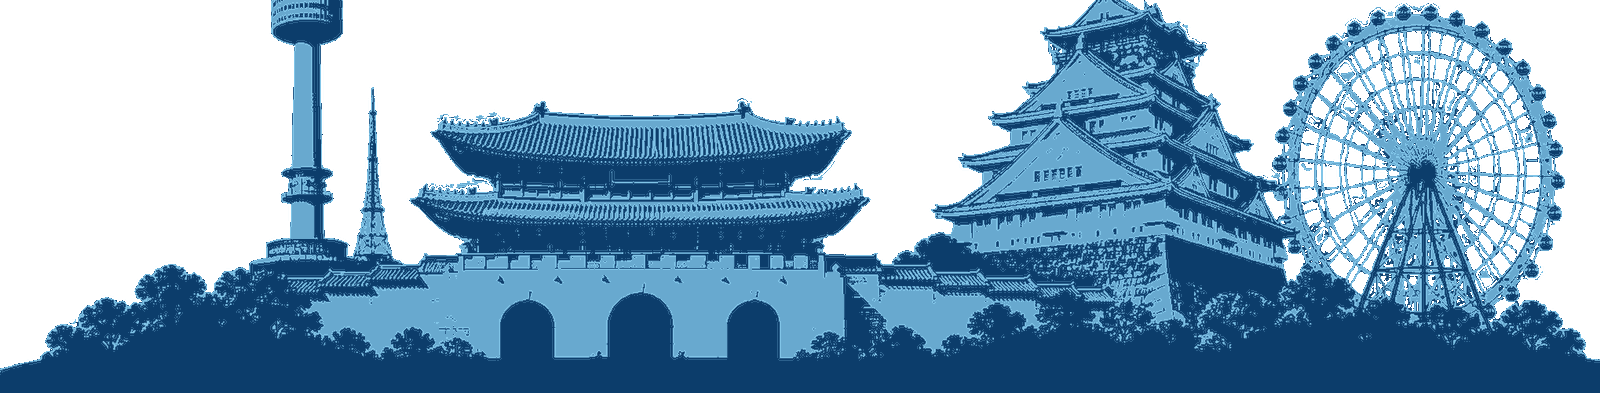
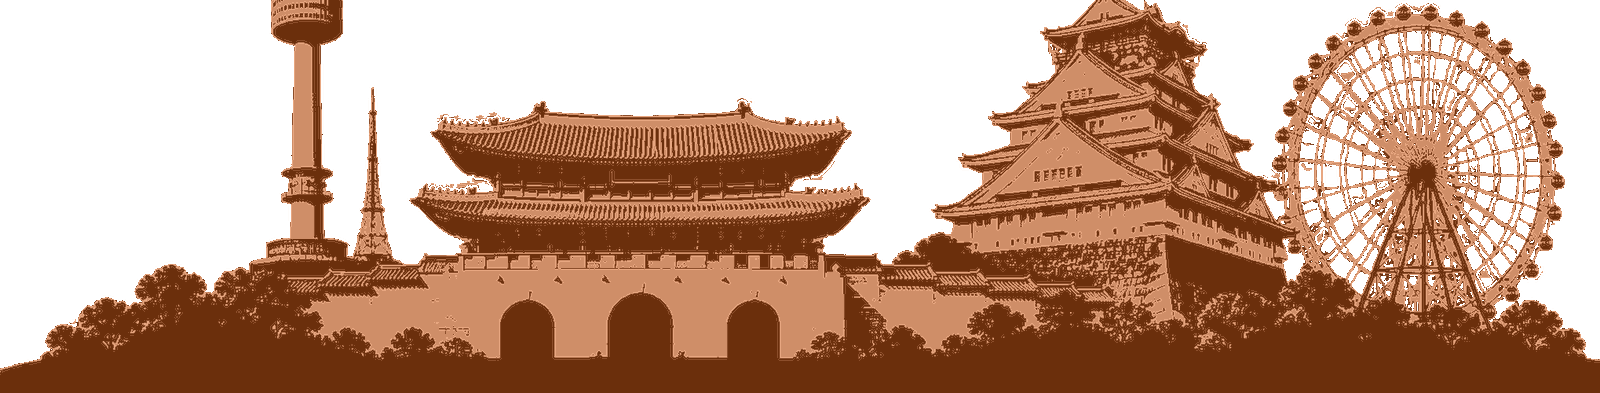
fix(brand): 히어로 스카이라인 에셋을 웜 톤으로 재제작 + 데스크톱 탭 터치 타겟 44px
배포 검증에서 지적된 두 건 대응. 브랜드 컬러 토큰 자체(--color-brand-*,
오렌지/핑크 계열)는 실수가 아니라 PR #170(Phase 0: indigo → warm
orange/pink)에서 로고 자산 색에 맞춰 의도적으로 재앵커한 값이고, 이후
두 차례 P0 핫픽스(1cb0fbf, 73a6ef2)로 히어로도 같은 방향으로 이미
맞춰져 있었다 — 즉 "PR #162 설명대로 인디고로 되돌리기"는 이미 뒤집힌
결정을 다시 뒤집는 셈이라 적용하지 않았다. brand-800/900도 globals.css
`@theme inline`에 이미 정의돼 있어(유틸리티 리터럴이 아니라 실제 CSS
변수) 별도 조치가 필요 없었다.

다만 진짜 문제였던 에셋 색 불일치는 실재했다 — hero-skyline.png가
PR #161 시절 파란 스카이라인 그대로 남아 있어서, 브랜드 오렌지 배경
위에서 색상환 175°가 벌어져 떠 보였다. Pillow로 색상만 웜 오렌지
(hue≈22°, 로고 hue≈19.5°/brand-700 실측 hue≈24° 사이)로 히스토그램
치환하고, 원본처럼 팔레트(P) 모드 + per-index alpha로 재저장해 파일
크기도 원본과 비슷하게(81KB → 69.5KB) 유지했다. 좌표·구도·투명도는
전부 원본 그대로라 스카이라인 실루엣 자체는 바뀌지 않았다. person 컷아웃은
이미 중립 톤(크림 재킷·흰 셔츠·청바지)이라 배경과 충돌하지 않아 손대지
않았다.

AppBar.tsx: 데스크톱(md↑) 인라인 탭 링크 높이를 py-1.5(~32px)에서
h-11(44px)로. 768px(태블릿 세로) 사용자는 md 브레이크포인트로 이
인라인 메뉴를 받는데 터치 기기라 44px 미달이었다.

Playwright(로컬 dev, DB 없는 정적 라우트 기준)로 375/768/1024px 탭
치수와 /planner 스크롤 접기/펴기 동작을 직접 확인:
- 375px: 모바일 탭바 5개 각 75×56px, "커뮤니티" 포함 전부 한 줄
- 768/1024px: 데스크톱 인라인 탭 44px 높이로 확인
- /planner: 아래로 스크롤 시 접힘, 위로 스크롤/맨 위 근접 시 펼쳐짐
  (완전히 숨겨지지 않아 항상 다른 탭으로 이동 가능)

diff --git a/src/components/AppBar.tsx b/src/components/AppBar.tsx
@@ -225,7 +225,7 @@ export function AppBar() {
                 <Link
                   key={tab.key}
                   href={tab.href}
-                  className={`rounded-full px-3 py-1.5 text-[13.5px] font-semibold transition-colors ${
+                  className={`flex h-11 items-center rounded-full px-3.5 text-[13.5px] font-semibold transition-colors ${
                     active
                       ? "bg-slate-900 text-white dark:bg-white dark:text-slate-900"
                       : "text-slate-600 hover:bg-slate-100 dark:text-slate-300 dark:hover:bg-slate-800"
